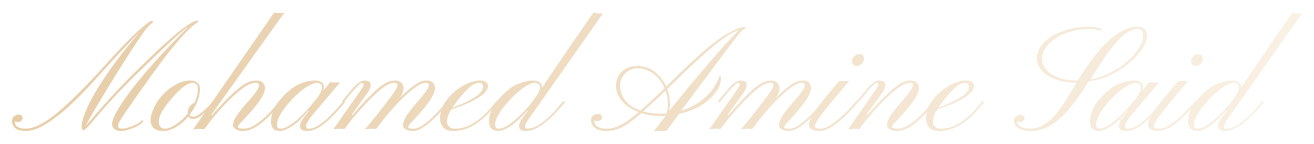
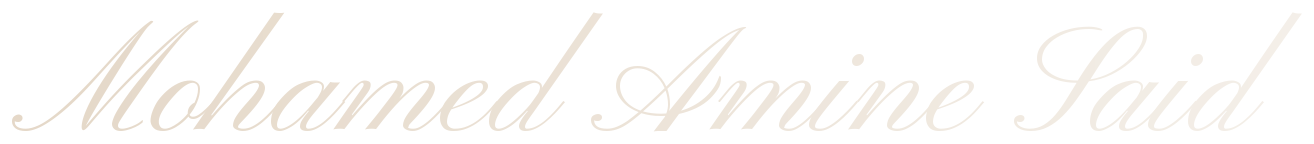
Setup: a lighter signature
At your word "lighter still": the handwritten name is a paler champagne
fading to soft ivory at 80% ink, a touch smaller (26 px), and "CRAFTED BY"
drops to a normal weight, so it reads as a light hand, not a headline.

Claude-Session: https://claude.ai/code/session_01H2cmnANq4WRK41pXKFuPQi

Changed region(s): [[0.0624, 0.1667, 0.312, 0.9167], [0.1872, 0.0833, 0.2184, 0.4167], [0.0, 0.8056, 0.0312, 0.9167]]

diff --git a/installer/setup/ui.rs b/installer/setup/ui.rs
@@ -87,11 +87,12 @@ const LOGO_DOT: &[u8] = include_bytes!("mark-dot.png");
 const LOGO_SLASH: &[u8] = include_bytes!("mark-slash.png");
 const LOGO_ANGLE: &[u8] = include_bytes!("mark-angle.png");
 /// The author's signature, handwritten: "Mohamed Amine Said" in Pinyon Script (SIL OFL 1.1,
-/// `signature-font-OFL.txt`), drawn once into a picture at three times its size, champagne
-/// fading to ivory left to right. The picture, not the font, ships.
+/// `signature-font-OFL.txt`), drawn once into a picture at three times its size: a pale
+/// champagne fading to soft ivory, at 80% ink, so it reads as a light hand, not a headline.
+/// The picture, not the font, ships.
 const SIGNATURE: &[u8] = include_bytes!("signature.png");
 /// Its size in the window, in logical pixels (the picture is 1314 x 144).
-const SIGNATURE_SIZE: (f32, f32) = (255.5, 28.);
+const SIGNATURE_SIZE: (f32, f32) = (237.2, 26.0);
 
 /// The intro, from the window's first frame: the mark comes together, the name rises, the
 /// right side glides in. Quick: about a second.
@@ -601,7 +602,7 @@ impl Setup {
                     .child(
                         div()
                             .text_size(px(9.))
-                            .font_weight(FontWeight::MEDIUM)
+                            .font_weight(FontWeight::NORMAL)
                             .text_color(Ink::subtle())
                             .child("C R A F T E D   B Y"),
                     )
